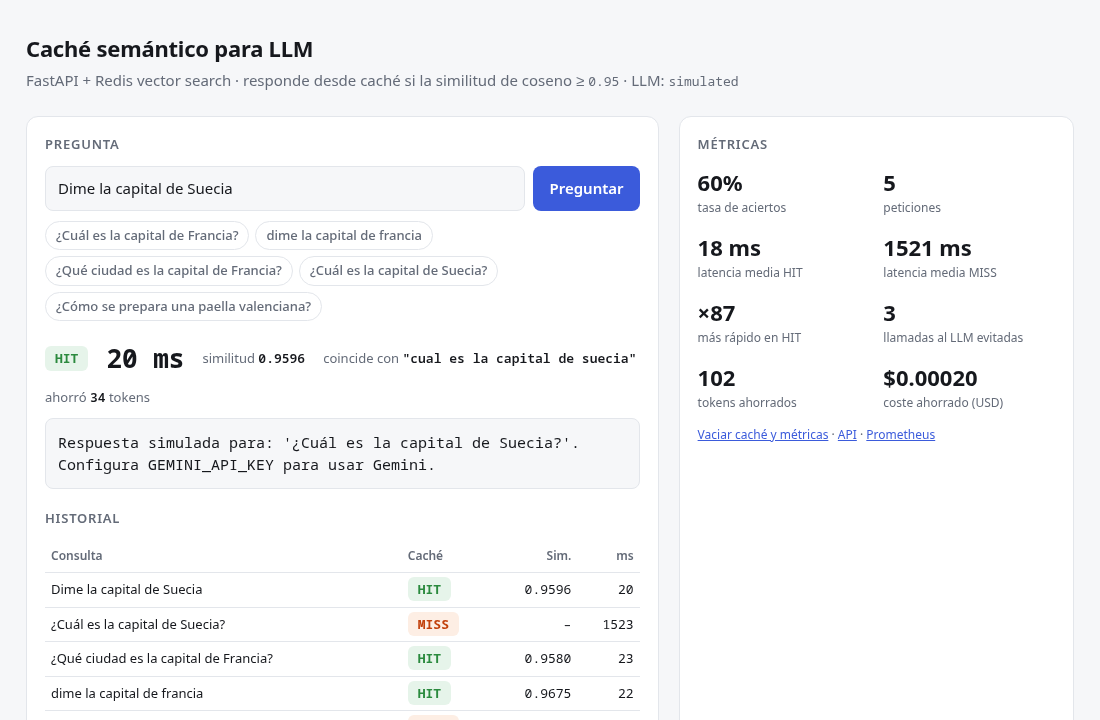
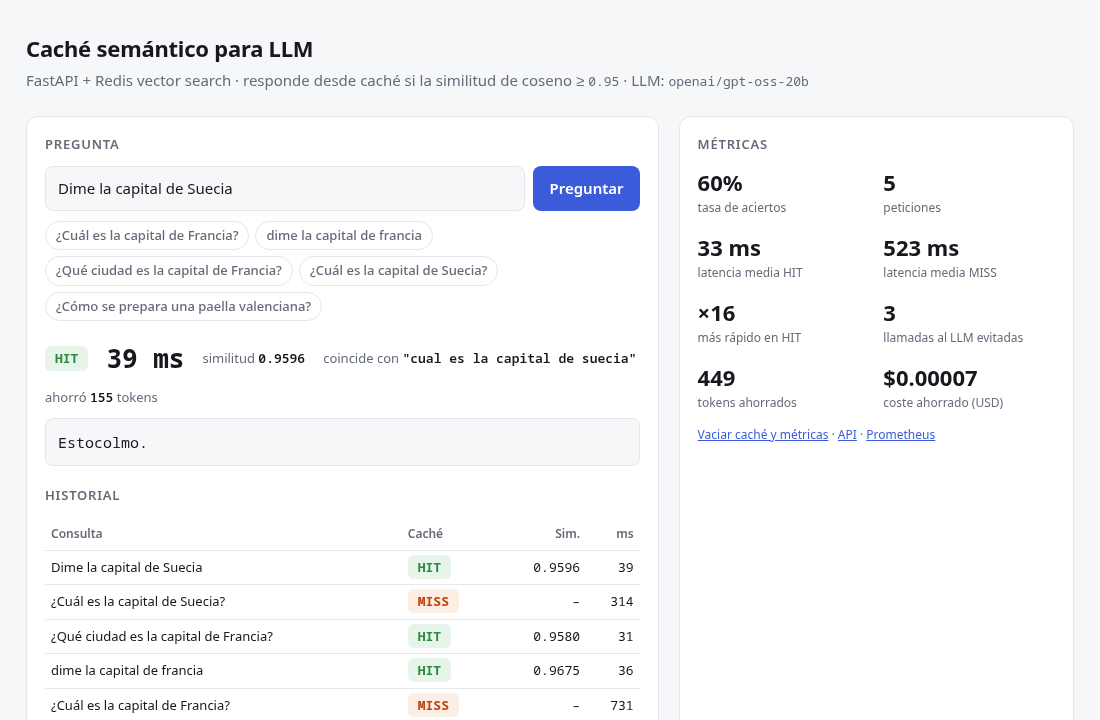
feat: add Groq as the default LLM backend
Groq (OpenAI-compatible chat completions, openai/gpt-oss-20b) is now the
first provider picked, ahead of xAI Grok and Gemini. Each backend carries its
own default pricing; SEMCACHE_PRICE_* only overrides it. Tests no longer read
the real .env, so a configured key can't change which backend they build.
Demo GIF re-recorded with real Groq answers (~500 ms MISS, 14-39 ms HIT).

diff --git a/app/llm.py b/app/llm.py
@@ -22,39 +22,66 @@ class LLMBackend(Protocol):
     async def generate(self, prompt: str) -> LLMResult: ...
 
 
-def _cost(settings: Settings, input_tokens: int, output_tokens: int) -> float:
-    return (
-        input_tokens * settings.price_input_per_mtok
-        + output_tokens * settings.price_output_per_mtok
-    ) / 1_000_000
+# USD por millón de tokens (entrada, salida) del modelo por defecto de cada proveedor, oct. 2026.
+# SEMCACHE_PRICE_INPUT_PER_MTOK / _OUTPUT_ los sustituyen si usas otro modelo.
+GROQ_PRICES = (0.075, 0.30)  # openai/gpt-oss-20b
+GROK_PRICES = (1.25, 2.50)  # grok-4.3
+GEMINI_PRICES = (0.30, 2.50)  # gemini-2.5-flash
 
 
-class GeminiBackend:
-    def __init__(self, settings: Settings):
-        from google import genai
-        from google.genai import types
+def _cost(
+    settings: Settings, defaults: tuple[float, float], input_tokens: int, output_tokens: int
+) -> float:
+    price_in = settings.price_input_per_mtok
+    price_out = settings.price_output_per_mtok
+    price_in = defaults[0] if price_in is None else price_in
+    price_out = defaults[1] if price_out is None else price_out
+    return (input_tokens * price_in + output_tokens * price_out) / 1_000_000
 
-        self._client = genai.Client(api_key=settings.gemini_api_key)
-        self._config = types.GenerateContentConfig(system_instruction=settings.system_prompt)
+
+def _http_client(
+    base_url: str, api_key: str | None, transport: httpx.AsyncBaseTransport | None
+) -> httpx.AsyncClient:
+    return httpx.AsyncClient(
+        base_url=base_url,
+        headers={"Authorization": f"Bearer {api_key}"},
+        timeout=httpx.Timeout(60.0, connect=5.0),
+        transport=transport,
+    )
+
+
+class GroqBackend:
+    """Groq (API compatible con OpenAI: POST /chat/completions) vía httpx."""
+
+    def __init__(self, settings: Settings, transport: httpx.AsyncBaseTransport | None = None):
+        self._client = _http_client(settings.groq_base_url, settings.groq_api_key, transport)
         self._settings = settings
-        self.name = settings.gemini_model
+        self.name = settings.groq_model
 
     async def generate(self, prompt: str) -> LLMResult:
-        resp = await self._client.aio.models.generate_content(
-            model=self.name, contents=prompt, config=self._config
+        resp = await self._client.post(
+            "/chat/completions",
+            json={
+                "model": self.name,
+                "messages": [
+                    {"role": "system", "content": self._settings.system_prompt},
+                    {"role": "user", "content": prompt},
+                ],
+            },
         )
-        usage = resp.usage_metadata
-        input_tokens = (usage.prompt_token_count or 0) if usage else 0
-        # Los tokens de razonamiento ("thinking") también se facturan como salida.
-        output_tokens = (
-            (usage.candidates_token_count or 0) + (usage.thoughts_token_count or 0) if usage else 0
-        )
+        resp.raise_for_status()
+        data = resp.json()
+        answer = data["choices"][0]["message"].get("content") or ""
+        usage = data.get("usage") or {}
+        # En el formato OpenAI, completion_tokens ya incluye los tokens de razonamiento.
+        input_tokens = usage.get("prompt_tokens", 0)
+        output_tokens = usage.get("completion_tokens", 0)
         return LLMResult(
-            answer=resp.text or "",
-            model=self.name,
+            answer=answer,
+            model=data.get("model", self.name),
             input_tokens=input_tokens,
             output_tokens=output_tokens,
-            cost_usd=_cost(self._settings, input_tokens, output_tokens),
+            cost_usd=_cost(self._settings, GROQ_PRICES, input_tokens, output_tokens),
         )
 
 
@@ -62,12 +89,7 @@ class GrokBackend:
     """xAI Responses API (POST /v1/responses) vía httpx, sin SDK adicional."""
 
     def __init__(self, settings: Settings, transport: httpx.AsyncBaseTransport | None = None):
-        self._client = httpx.AsyncClient(
-            base_url=settings.xai_base_url,
-            headers={"Authorization": f"Bearer {settings.xai_api_key}"},
-            timeout=httpx.Timeout(60.0, connect=5.0),
-            transport=transport,
-        )
+        self._client = _http_client(settings.xai_base_url, settings.xai_api_key, transport)
         self._settings = settings
         self.name = settings.xai_model
 
@@ -103,7 +125,36 @@ class GrokBackend:
             model=data.get("model", self.name),
             input_tokens=input_tokens,
             output_tokens=output_tokens,
-            cost_usd=_cost(self._settings, input_tokens, output_tokens),
+            cost_usd=_cost(self._settings, GROK_PRICES, input_tokens, output_tokens),
+        )
+
+
+class GeminiBackend:
+    def __init__(self, settings: Settings):
+        from google import genai
+        from google.genai import types
+
+        self._client = genai.Client(api_key=settings.gemini_api_key)
+        self._config = types.GenerateContentConfig(system_instruction=settings.system_prompt)
+        self._settings = settings
+        self.name = settings.gemini_model
+
+    async def generate(self, prompt: str) -> LLMResult:
+        resp = await self._client.aio.models.generate_content(
+            model=self.name, contents=prompt, config=self._config
+        )
+        usage = resp.usage_metadata
+        input_tokens = (usage.prompt_token_count or 0) if usage else 0
+        # Los tokens de razonamiento ("thinking") también se facturan como salida.
+        output_tokens = (
+            (usage.candidates_token_count or 0) + (usage.thoughts_token_count or 0) if usage else 0
+        )
+        return LLMResult(
+            answer=resp.text or "",
+            model=self.name,
+            input_tokens=input_tokens,
+            output_tokens=output_tokens,
+            cost_usd=_cost(self._settings, GEMINI_PRICES, input_tokens, output_tokens),
         )
 
 
@@ -117,7 +168,9 @@ class SimulatedBackend:
 
     async def generate(self, prompt: str) -> LLMResult:
         await asyncio.sleep(self._settings.simulated_latency_s)
-        answer = f"Respuesta simulada para: {prompt!r}. Configura XAI_API_KEY para usar Grok."
+        answer = (
+            f"Respuesta simulada para: {prompt!r}. Configura GROQ_API_KEY para usar un LLM real."
+        )
         # ~4 caracteres por token: suficiente para que las métricas de ahorro tengan sentido.
         input_tokens, output_tokens = len(prompt) // 4 + 1, len(answer) // 4 + 1
         return LLMResult(
@@ -125,11 +178,14 @@ class SimulatedBackend:
             self.name,
             input_tokens,
             output_tokens,
-            _cost(self._settings, input_tokens, output_tokens),
+            _cost(self._settings, GROQ_PRICES, input_tokens, output_tokens),
         )
 
 
 def build_backend(settings: Settings) -> LLMBackend:
+    """Usa el primer proveedor con clave configurada: Groq, Grok (xAI), Gemini."""
+    if settings.groq_api_key:
+        return GroqBackend(settings)
     if settings.xai_api_key:
         return GrokBackend(settings)
     if settings.gemini_api_key:

diff --git a/tests/test_llm.py b/tests/test_llm.py
@@ -6,12 +6,56 @@ import httpx
 import pytest
 
 from app.config import Settings
-from app.llm import GeminiBackend, GrokBackend, SimulatedBackend, build_backend
+from app.llm import GeminiBackend, GrokBackend, GroqBackend, SimulatedBackend, build_backend
+
+
+def settings(**overrides) -> Settings:
+    keys = {"groq_api_key": None, "xai_api_key": None, "gemini_api_key": None}
+    return Settings(_env_file=None, **{**keys, **overrides})
 
 
 def grok_with(handler) -> GrokBackend:
-    settings = Settings(xai_api_key="xai-test", gemini_api_key=None)
-    return GrokBackend(settings, transport=httpx.MockTransport(handler))
+    return GrokBackend(settings(xai_api_key="xai-test"), transport=httpx.MockTransport(handler))
+
+
+def groq_with(handler) -> GroqBackend:
+    return GroqBackend(settings(groq_api_key="gsk-test"), transport=httpx.MockTransport(handler))
+
+
+async def test_groq_request_shape_and_parsing():
+    seen = {}
+
+    def handler(request: httpx.Request) -> httpx.Response:
+        seen["url"] = str(request.url)
+        seen["auth"] = request.headers["authorization"]
+        seen["body"] = json.loads(request.content)
+        return httpx.Response(
+            200,
+            json={
+                "model": "openai/gpt-oss-20b",
+                "choices": [
+                    {"message": {"role": "assistant", "content": "París.", "reasoning": "..."}}
+                ],
+                "usage": {"prompt_tokens": 97, "completion_tokens": 23, "total_tokens": 120},
+            },
+        )
+
+    result = await groq_with(handler).generate("¿Capital de Francia?")
+
+    assert seen["url"] == "https://api.groq.com/openai/v1/chat/completions"
+    assert seen["auth"] == "Bearer gsk-test"
+    assert seen["body"]["model"] == "openai/gpt-oss-20b"
+    assert seen["body"]["messages"][-1] == {"role": "user", "content": "¿Capital de Francia?"}
+    assert result.answer == "París."
+    assert (result.input_tokens, result.output_tokens) == (97, 23)
+    assert result.cost_usd == pytest.approx((97 * 0.075 + 23 * 0.30) / 1_000_000)
+
+
+def test_price_override_applies_to_any_provider():
+    from app.llm import GROQ_PRICES, _cost
+
+    s = settings(price_input_per_mtok=1.0, price_output_per_mtok=2.0)
+    assert _cost(s, GROQ_PRICES, 1_000_000, 1_000_000) == pytest.approx(3.0)
 
 
 def responses_payload(text: str, usage: dict) -> dict:
@@ -75,10 +119,11 @@ async def test_grok_http_errors_propagate():
 @pytest.mark.parametrize(
     "keys, expected",
     [
+        ({"groq_api_key": "q", "xai_api_key": "x", "gemini_api_key": "g"}, GroqBackend),
         ({"xai_api_key": "x", "gemini_api_key": "g"}, GrokBackend),
-        ({"xai_api_key": None, "gemini_api_key": "g"}, GeminiBackend),
-        ({"xai_api_key": None, "gemini_api_key": None}, SimulatedBackend),
+        ({"gemini_api_key": "g"}, GeminiBackend),
+        ({}, SimulatedBackend),
     ],
 )
 def test_backend_selection(keys, expected):
-    assert isinstance(build_backend(Settings(**keys)), expected)
+    assert isinstance(build_backend(settings(**keys)), expected)

diff --git a/app/config.py b/app/config.py
@@ -34,22 +34,27 @@ class Settings(BaseSettings):
     # Cuánto espera una petición duplicada a que termine la que está en vuelo.
     inflight_wait_ms: int = 30_000
 
-    # LLM: sin ninguna API key se usa un backend simulado (demo, tests y CI sin coste).
-    gemini_api_key: str | None = Field(
-        default=None, validation_alias=AliasChoices("GEMINI_API_KEY", "SEMCACHE_GEMINI_API_KEY")
+    # LLM: se usa el primer proveedor con clave (Groq, Grok, Gemini); sin ninguna, un
+    # backend simulado (demo, tests y CI sin coste).
+    groq_api_key: str | None = Field(
+        default=None, validation_alias=AliasChoices("GROQ_API_KEY", "SEMCACHE_GROQ_API_KEY")
     )
-    gemini_model: str = "gemini-2.5-flash"
-    # Grok (xAI) tiene prioridad sobre Gemini si están las dos claves.
+    groq_model: str = "openai/gpt-oss-20b"
+    groq_base_url: str = "https://api.groq.com/openai/v1"
     xai_api_key: str | None = Field(
         default=None, validation_alias=AliasChoices("XAI_API_KEY", "SEMCACHE_XAI_API_KEY")
     )
     xai_model: str = "grok-4.3"
     xai_base_url: str = "https://api.x.ai/v1"
+    gemini_api_key: str | None = Field(
+        default=None, validation_alias=AliasChoices("GEMINI_API_KEY", "SEMCACHE_GEMINI_API_KEY")
+    )
+    gemini_model: str = "gemini-2.5-flash"
     system_prompt: str = "Responde de forma breve y precisa, en el idioma de la pregunta."
-    # USD por millón de tokens, para estimar el ahorro. Por defecto la tarifa de grok-4.3
-    # (oct. 2026); para gemini-2.5-flash usa 0.30 / 2.50. Revisa la tarifa vigente.
-    price_input_per_mtok: float = 1.25
-    price_output_per_mtok: float = 2.50
+    # USD por millón de tokens, para estimar el ahorro. Sin valor se usa la tarifa del modelo
+    # por defecto de cada proveedor (ver app/llm.py); defínelo si cambias de modelo.
+    price_input_per_mtok: float | None = None
+    price_output_per_mtok: float | None = None
     simulated_latency_s: float = 1.5
 
     def ttl_for(self, path: str) -> int:

diff --git a/tests/conftest.py b/tests/conftest.py
@@ -53,11 +53,13 @@ def make_client(redis):
     async def factory(embedder, llm=None, **overrides):
         suffix = uuid.uuid4().hex[:8]
         settings = Settings(
+            _env_file=None,  # los tests no leen el .env real (ni sus claves)
             redis_url=REDIS_URL,
             index_name=f"test_idx_{suffix}",
             key_prefix=f"test_{suffix}:",
-            gemini_api_key=None,
+            groq_api_key=None,
             xai_api_key=None,
+            gemini_api_key=None,
             **overrides,
         )
         llm = llm or FakeLLM()

diff --git a/scripts/record_demo.py b/scripts/record_demo.py
@@ -46,6 +46,8 @@ def main() -> None:
                 page.fill("#q", query[: i + 3])
                 snap(60)
             page.click("#b")
+            # Las capturas consumen CPU y competirían con el embedding: un HIT termina antes.
+            page.wait_for_timeout(150)
             # Captura mientras espera: en un MISS se ve el botón ocupado durante la llamada al LLM.
             start = time.monotonic()
             while page.is_disabled("#b") and time.monotonic() - start < 30:

diff --git a/tests/test_real_similarity.py b/tests/test_real_similarity.py
@@ -10,7 +10,7 @@ from app.embeddings import FastEmbedEmbedder
 from app.middleware import normalize_query
 
 THRESHOLD = 0.95
-MODEL = Settings().embedding_model
+MODEL = Settings(_env_file=None).embedding_model
 
 # Misma intención, distinta forma de escribirla: deben dar HIT.
 SAME = [

diff --git a/README.md b/README.md
@@ -3,9 +3,9 @@
 [![CI](https://github.com/galvysRodriguez/semantic-cache/actions/workflows/ci.yml/badge.svg)](https://github.com/galvysRodriguez/semantic-cache/actions/workflows/ci.yml)
 ![Python](https://img.shields.io/badge/python-3.12+-3776AB)
 ![Redis](https://img.shields.io/badge/Redis_8-vector_search-DC382D)
-![LLM](https://img.shields.io/badge/LLM-Grok_%7C_Gemini-000000)
+![LLM](https://img.shields.io/badge/LLM-Groq_%7C_Grok_%7C_Gemini-F55036)
 
-Middleware para FastAPI que intercepta preguntas dirigidas a un LLM (Grok de xAI, o Gemini) y, si ya se respondió
+Middleware para FastAPI que intercepta preguntas dirigidas a un LLM (Groq por defecto; también Grok de xAI o Gemini) y, si ya se respondió
 una **semánticamente equivalente**, devuelve la respuesta guardada en Redis en milisegundos en lugar
 de volver a pagar la llamada.
 
@@ -17,6 +17,10 @@ de volver a pagar la llamada.
 | Latencia p50 | 1500 ms | **45 ms** |
 | Latencia p50 preguntas repetidas o parafraseadas | 1500 ms | **37 ms** |
 | Peticiones que llegan al LLM | 100 % | **10 %** |
+
+Con Groq real (`openai/gpt-oss-20b`, uno de los LLM más rápidos), un MISS tarda ~500 ms y un HIT
+14-28 ms: **~27× más rápido**. La prueba de carga usa un backend simulado de 1.5 s, más parecido
+a un LLM grande, para no gastar cuota.
 
 ## Cómo funciona
 
@@ -31,7 +35,7 @@ SemanticCacheMiddleware (ASGI puro)
   4. KNN 3 en índice HNSW COSINE de Redis
        └─ similitud ≥ 0.95 y mismos números/IDs ─────────────────────► HIT  (~15-30 ms)
   5. ¿la misma consulta ya está en vuelo? ── espera su respuesta ─────► HIT  (single-flight)
-  6. si no: llama a Grok, guarda la respuesta 2xx con TTL ────────────► MISS (~1-3 s)
+  6. si no: llama al LLM, guarda la respuesta 2xx con TTL ───────────► MISS (~0.5-3 s)
 ```
 
 Cada respuesta indica qué pasó: `X-Cache: HIT|MISS`, `X-Cache-Similarity`, `X-Cache-Matched-Query`,
@@ -40,7 +44,7 @@ Cada respuesta indica qué pasó: `X-Cache: HIT|MISS`, `X-Cache-Similarity`, `X-
 ## Puesta en marcha
 
 ```bash
-cp .env.example .env            # añade XAI_API_KEY (sin ella se usa un LLM simulado)
+cp .env.example .env            # añade GROQ_API_KEY (sin clave se usa un LLM simulado)
 docker compose up --build       # o: podman compose up --build
 ```
 
@@ -111,9 +115,11 @@ serían un modelo de embeddings en GPU o un servicio aparte.
 
 | Variable | Por defecto | |
 |---|---|---|
-| `XAI_API_KEY` | – | Grok (xAI); tiene prioridad sobre Gemini |
+| `GROQ_API_KEY` | – | Groq (claves `gsk_…`); se usa el primer proveedor con clave |
+| `SEMCACHE_GROQ_MODEL` | `openai/gpt-oss-20b` | |
+| `XAI_API_KEY` | – | Grok de xAI (claves `xai-…`) |
 | `SEMCACHE_XAI_MODEL` | `grok-4.3` | |
-| `GEMINI_API_KEY` | – | alternativa; sin ninguna clave se usa el backend simulado |
+| `GEMINI_API_KEY` | – | sin ninguna clave se usa el backend simulado |
 | `SEMCACHE_GEMINI_MODEL` | `gemini-2.5-flash` | |
 | `SEMCACHE_SIMILARITY_THRESHOLD` | `0.95` | |
 | `SEMCACHE_TTL_SECONDS` | `3600` | 0 = sin expiración |
@@ -121,7 +127,7 @@ serían un modelo de embeddings en GPU o un servicio aparte.
 | `SEMCACHE_CACHED_PATHS` | `["/ask"]` | rutas interceptadas |
 | `SEMCACHE_TENANT_HEADER` | `x-tenant-id` | |
 | `SEMCACHE_ENABLED` | `true` | `false` para medir la línea base |
-| `SEMCACHE_PRICE_INPUT_PER_MTOK` / `_OUTPUT_` | `1.25` / `2.50` | USD por millón de tokens (tarifa de grok-4.3), para estimar el ahorro |
+| `SEMCACHE_PRICE_INPUT_PER_MTOK` / `_OUTPUT_` | tarifa del modelo por defecto | USD por millón de tokens, para estimar el ahorro; defínelo si cambias de modelo |
 
 ## Desarrollo
 
@@ -129,7 +135,7 @@ serían un modelo de embeddings en GPU o un servicio aparte.
 python -m venv .venv && .venv/bin/pip install -r requirements-dev.txt
 docker compose up -d redis
 
-.venv/bin/pytest                    # 71 tests: middleware, LLM, modelo real e integración con Redis
+.venv/bin/pytest                    # 74 tests: middleware, LLM, modelo real e integración con Redis
 .venv/bin/ruff check . && .venv/bin/mypy
 .venv/bin/uvicorn app.main:create_app --factory --reload
 ```
@@ -150,7 +156,7 @@ app/
   middleware.py   intercepción ASGI, normalización, single-flight
   cache.py        índice vectorial Redis, búsqueda KNN, guard de entidades, invalidación
   embeddings.py   embeddings locales (fastembed / ONNX)
-  llm.py          backends Grok (xAI Responses API), Gemini y simulado
+  llm.py          backends Groq, Grok (xAI), Gemini y simulado
   stats.py        métricas en Redis y Prometheus
   main.py         app FastAPI
   static/         página de demo
